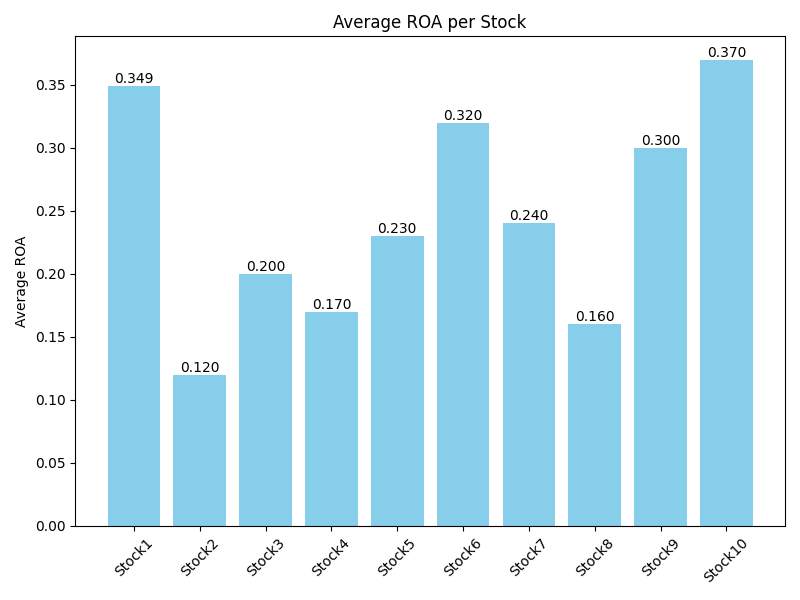
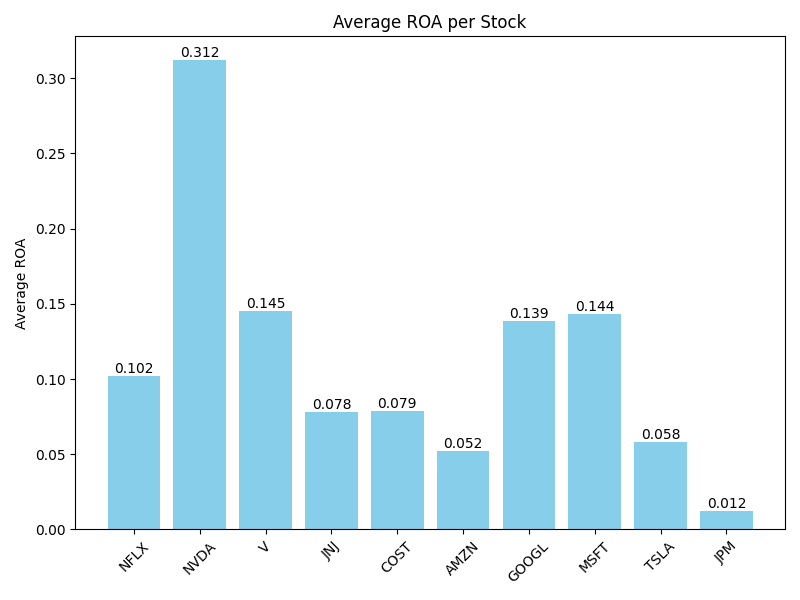
diversity

diff --git a/Diversity_of_the_Portfolio/diversity.py b/Diversity_of_the_Portfolio/diversity.py
@@ -5,17 +5,22 @@ import matplotlib.pyplot as plt
 
 # Input your own ROA data for 10 stocks over n years
 # Remember to put commas between the values
+stock_names = [
+    "NFLX", "NVDA", "V", "JNJ", "COST",
+    "AMZN", "GOOGL", "MSFT", "TSLA", "JPM"
+]
+
 roa_data = np.array([
-    [0.5324, 0.5742, 0.3855, 0.0817, 0.1720],  # Stock 1：NVDA
-    [0.10, 0.11, 0.12, 0.13, 0.14], # Stock 2:
-    [0.20, 0.18, 0.19, 0.21, 0.22], # Stock 3:
-    [0.15, 0.16, 0.17, 0.18, 0.19], # Stock 4:
-    [0.25, 0.24, 0.23, 0.22, 0.21], # Stock 5:
-    [0.30, 0.31, 0.32, 0.33, 0.34], # Stock 6:
-    [0.22, 0.23, 0.24, 0.25, 0.26], # Stock 7:
-    [0.18, 0.17, 0.16, 0.15, 0.14], # Stock 8:
-    [0.28, 0.29, 0.30, 0.31, 0.32], # Stock 9:
-    [0.35, 0.36, 0.37, 0.38, 0.39]  # Stock10:
+    [0.1505, 0.1272, 0.0893, 0.0756, 0.0923, 0.0782],  # Stock 1：NFLX
+    [0.5324, 0.5742, 0.3855, 0.0817, 0.1720, 0.1280],  # Stock 2: NVDA
+    [0.1705, 0.1617, 0.1557, 0.1461, 0.1206, 0.1150],  # Stock 3: V
+    [0.0761, 0.0813, 0.0840, 0.0751, 0.0755, 0.0762],  # Stock 4: JNJ
+    [0.0879, 0.0836, 0.0798, 0.0801, 0.0739, 0.0673],  # Stock 5: COST
+    [0.0770, 0.0744, 0.0465, 0.0189, 0.0419, 0.0524],  # Stock 6: AMZN
+    [0.1679, 0.1674, 0.1373, 0.1291, 0.1449, 0.0865],  # Stock 7: GOOGL
+    [0.1420, 0.1420, 0.1480, 0.1424, 0.1492, 0.1376],  # Stock 8: MSFT
+    [0.0291, 0.0419, 0.0588, 0.1185, 0.0713, 0.0282],  # Stock 9: TSLA
+    [0.0130, 0.0148, 0.0131, 0.0102, 0.0136, 0.0096]   # Stock 10: JPM
 ])
 
 # Calculate the average ROA for each stock
@@ -47,7 +52,7 @@ print("Portfolio Diversity (correlation-based):", diversity)
 # =============== Visualization ===============
 # Visualize the average ROA for each stock
 plt.figure(figsize=(8, 6))
-plt.bar([f"Stock{i+1}" for i in range(len(avg_roa))], avg_roa, color='skyblue')
+plt.bar(stock_names, avg_roa, color='skyblue')
 plt.title("Average ROA per Stock")
 plt.ylabel("Average ROA")
 plt.xticks(rotation=45)
@@ -58,12 +63,17 @@ plt.tight_layout()
 plt.savefig("average_roa_per_stock.png") 
 
 # Visualize the correlation matrix
+# Visualize the correlation matrix
 plt.figure(figsize=(10,8))
-sns.heatmap(corr_matrix, annot=True, fmt=".2f", cmap="coolwarm", square=True, cbar_kws={"shrink": .8})
+sns.heatmap(corr_matrix, annot=True, fmt=".2f", cmap="coolwarm", square=True, 
+            cbar_kws={"shrink": .8}, 
+            xticklabels=stock_names, 
+            yticklabels=stock_names)
 plt.title("ROA Correlation Heatmap")
 plt.xticks(rotation=45)
 plt.yticks(rotation=0)
 plt.tight_layout()
 # Save the correlation heatmap
 plt.savefig("roa_correlation_heatmap.png")
+# plt.show()
 
